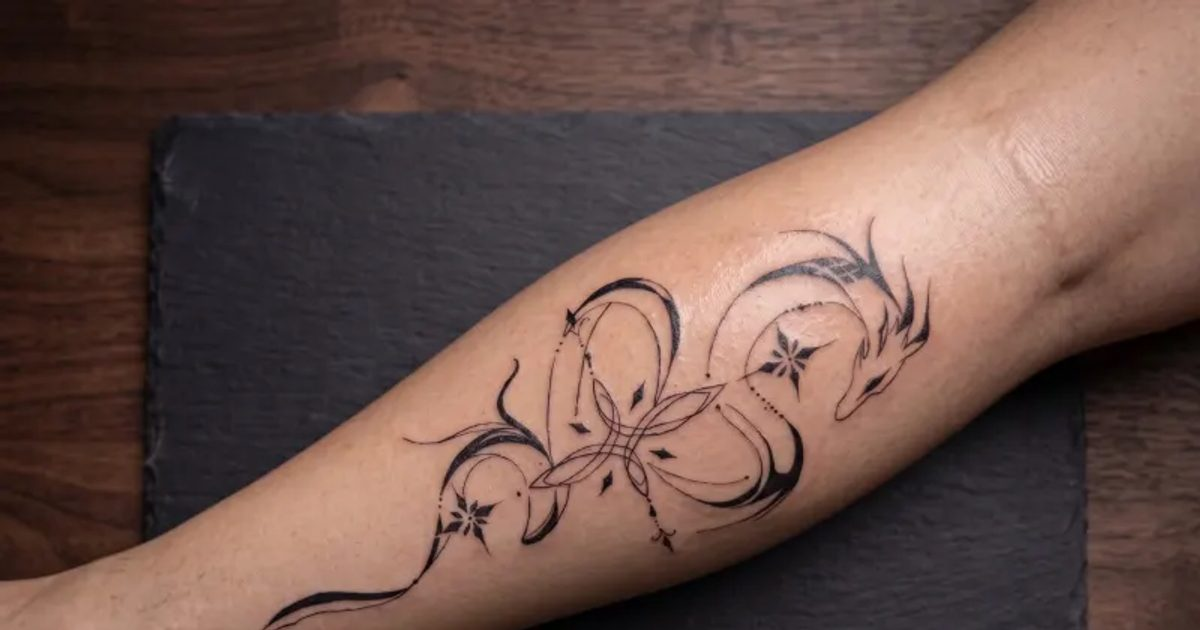
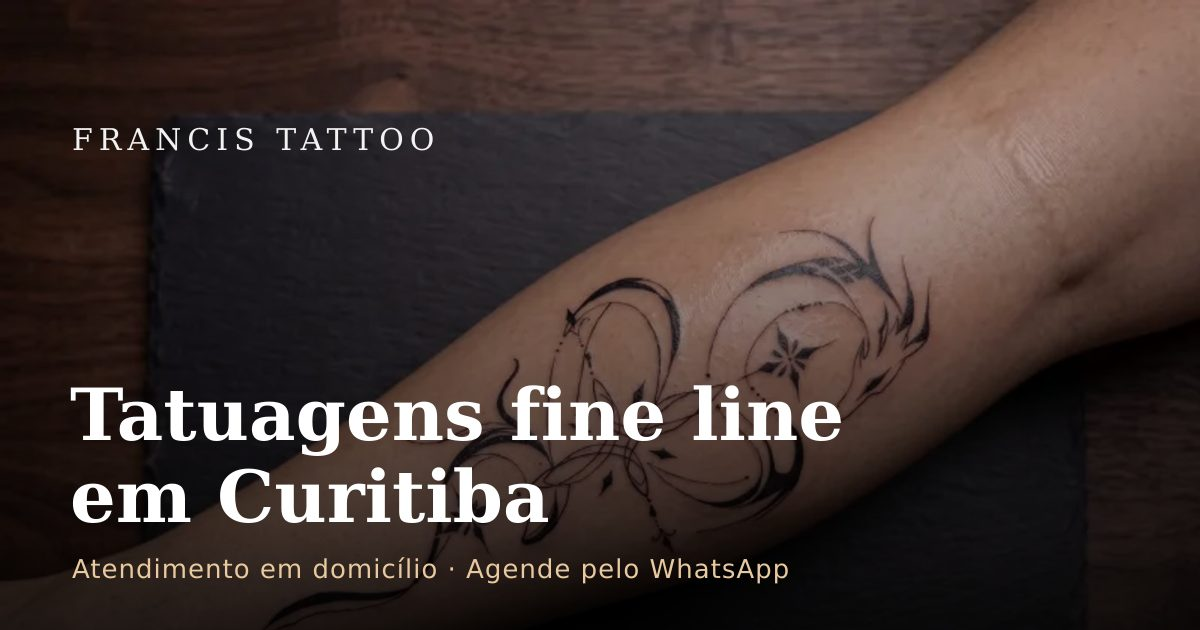
Add branded 1200x630 OG card and trim meta description
- Replace photo-only og-image with a 1200x630 card: darkened photo +
  headline "Tatuagens fine line em Curitiba" + WhatsApp CTA, fixing
  aspect-ratio and missing-conversion-text warnings
- Shorten meta description 177 -> 142 chars to avoid SERP truncation

Claude-Session: https://claude.ai/code/session_0146FAQuy9a5XdPHdkMUHUJX

diff --git a/index.html b/index.html
@@ -4,7 +4,7 @@
 <meta charset="utf-8">
 <meta name="viewport" content="width=device-width, initial-scale=1">
 <title>Francis Tattoo | Tatuagens Fine Line em Curitiba</title>
-<meta name="description" content="Estúdio de tatuagem fine line em Curitiba. Traço fino, tatuagens delicadas, botânicas, blackwork e cover-up, com atendimento em domicílio. Agende sua tatuagem pelo WhatsApp.">
+<meta name="description" content="Estúdio de tatuagem fine line em Curitiba: traço fino, botânico, blackwork e cover-up, com atendimento em domicílio. Agende pelo WhatsApp.">
 <meta name="robots" content="index, follow">
 <link rel="canonical" href="https://www.francistattoo.com.br/">
 
